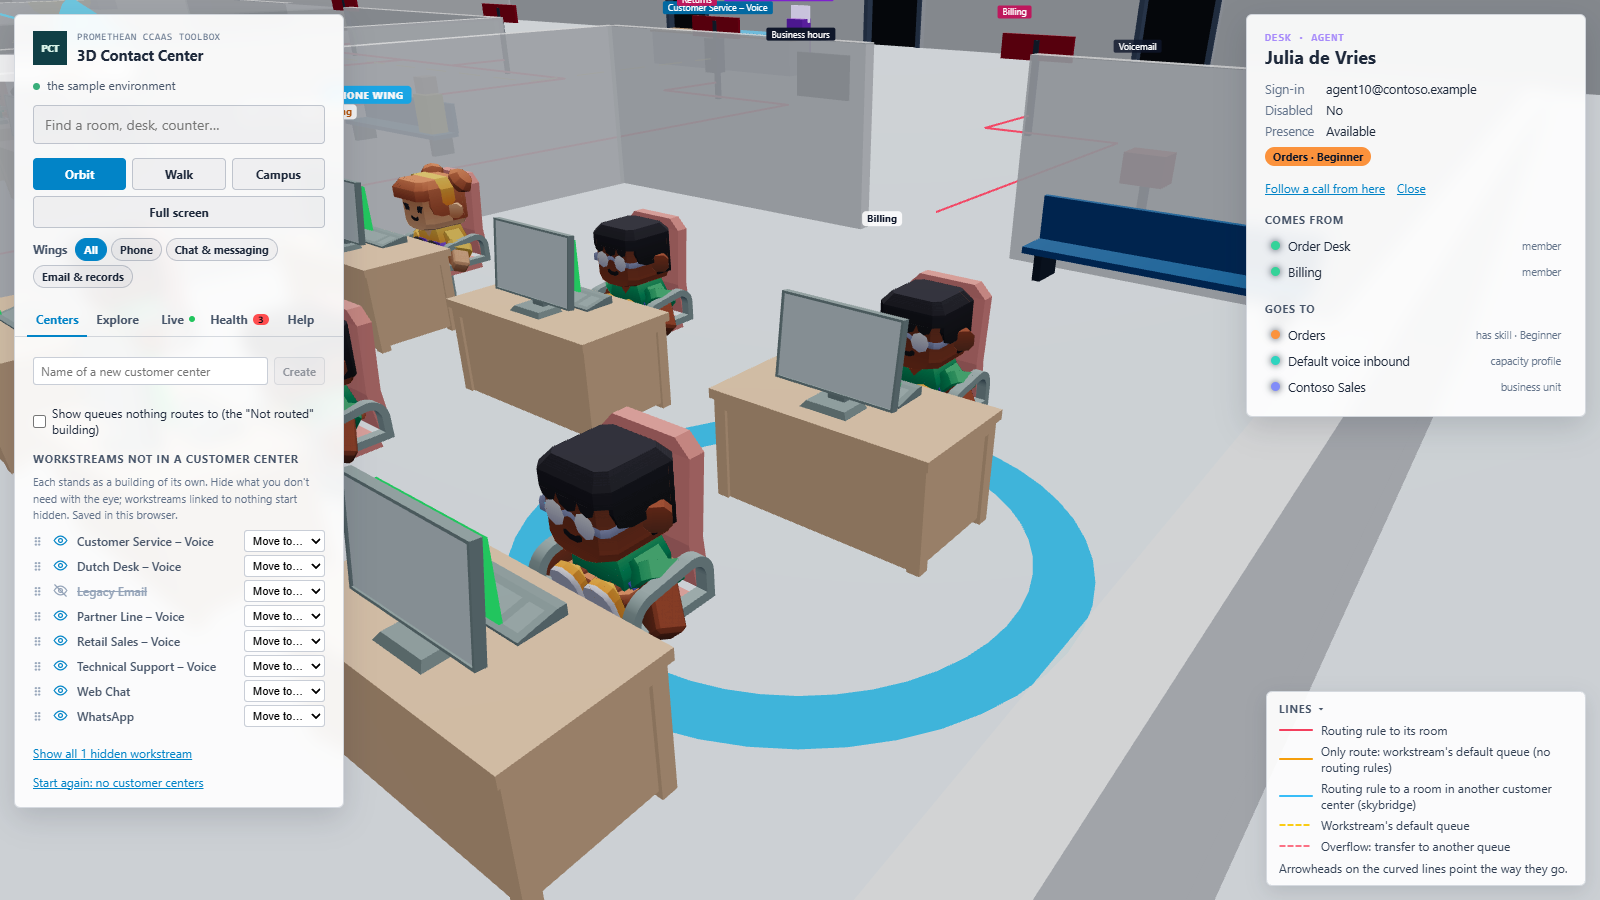
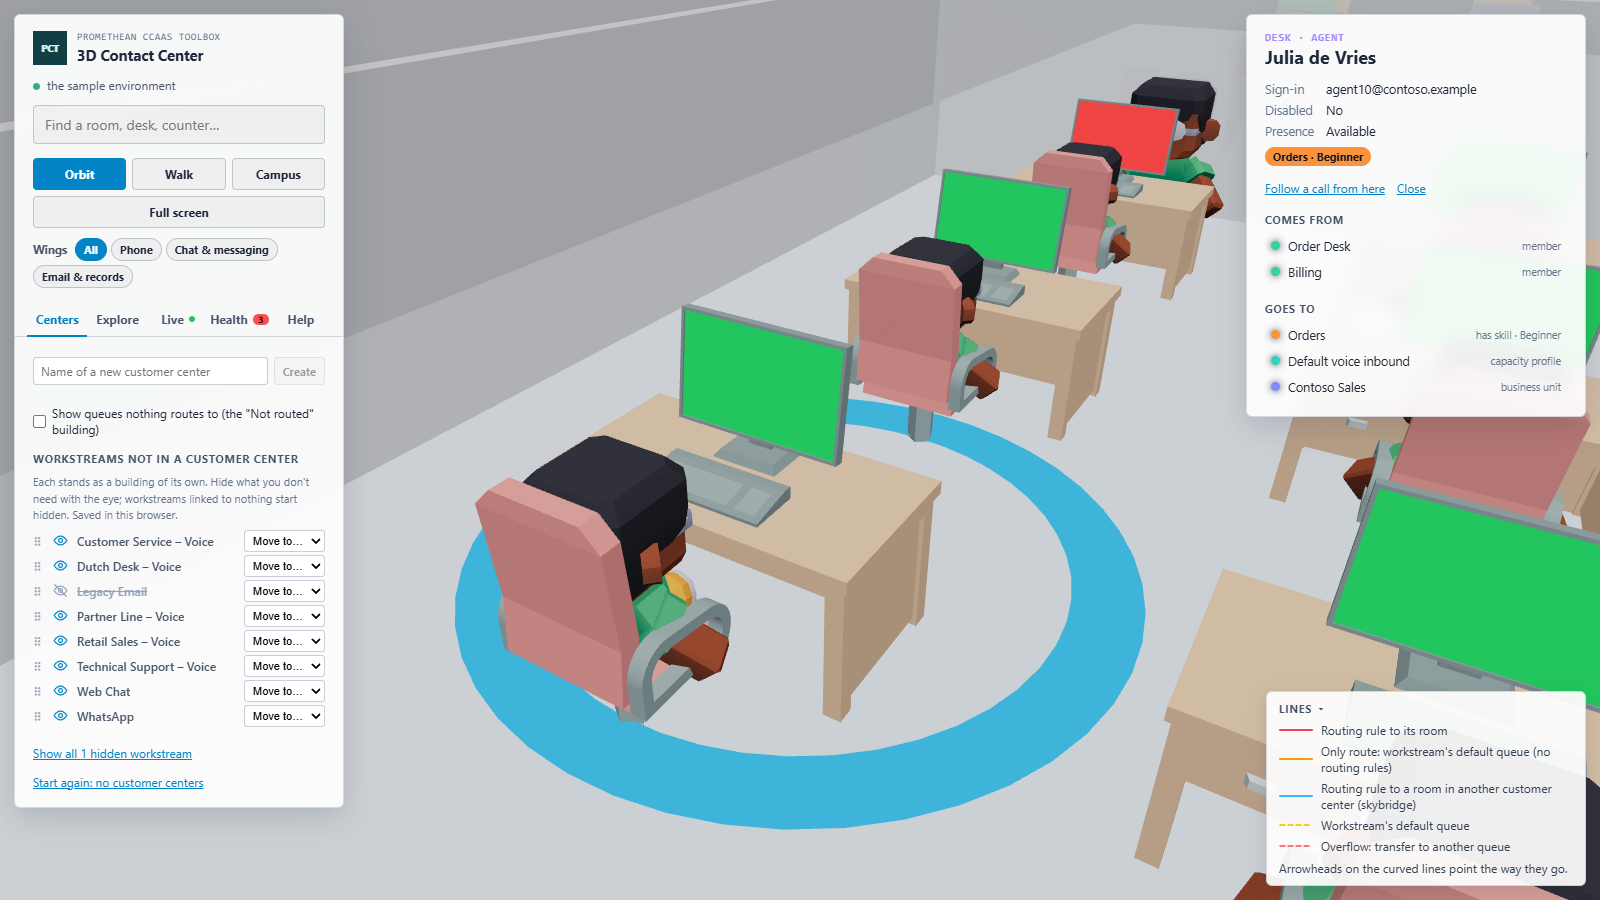
3D Contact Center: screens and keyboards face the agent; the display shows presence
Kenney's models face +z; the screen and keyboard had been turned round.
The display itself now carries the presence colour instead of a panel
floating in front of it.

diff --git a/tools/contact-center-3d/src/CampusScene.tsx b/tools/contact-center-3d/src/CampusScene.tsx
@@ -10,7 +10,7 @@ import { Severity } from "../../environment-3d-explorer/src/health";
 import { hash } from "../../environment-3d-explorer/src/layout";
 import { CameraGoal, CameraRig, Mode, Ride, SceneHandle } from "../../environment-3d-explorer/src/Scene";
 import { Area, Fixture, FixtureKind, Path, PathKind, Plan, Vec3, Wall, Wing, WING_COLORS } from "./floorplan";
-import { lookOf, Model, Models, useModels } from "./models";
+import { isDisplay, lookOf, Model, Models, useModels } from "./models";
 
 // The campus in 3D: open-roofed buildings seen from above, like a doll's house. Floors, walls, desks
 // and people are instanced boxes, so a large center stays smooth.
@@ -136,24 +136,33 @@ const SEATED_Y = 0.5;
 
 interface ModelItem { x: number; y: number; z: number; key?: string; turn?: number; scale?: number }
 
+// A part of a model coloured per copy (a screen's display in the agent's presence colour); glow: lit.
+interface Tint { part(material: THREE.Material): boolean; colors: THREE.Color[]; glow?: boolean }
+
 // Many copies of one model: an instanced mesh per part, each copy moved to its spot.
-function ModelInstances({ model, items, onPick }: { model: Model; items: ModelItem[]; onPick?: (key: string | undefined, item: ModelItem) => void }) {
+function ModelInstances({ model, items, onPick, tint }: { model: Model; items: ModelItem[]; onPick?: (key: string | undefined, item: ModelItem) => void; tint?: Tint }) {
   const refs = useRef<(THREE.InstancedMesh | null)[]>([]);
+  const tinted = useMemo(() => (tint?.glow ? new THREE.MeshBasicMaterial({ toneMapped: false }) : new THREE.MeshStandardMaterial({ roughness: 0.5 })), [tint?.glow]);
+  useEffect(() => () => tinted.dispose(), [tinted]);
   useLayoutEffect(() => {
     const m = new THREE.Matrix4();
-    refs.current.forEach((mesh) => {
+    refs.current.forEach((mesh, p) => {
       if (!mesh) return;
       items.forEach((it, i) => { m.makeRotationY(it.turn ?? 0).scale(new THREE.Vector3(it.scale ?? 1, it.scale ?? 1, it.scale ?? 1)).setPosition(it.x, it.y, it.z); mesh.setMatrixAt(i, m); });
+      if (tint && tint.part(model.parts[p].material)) {
+        items.forEach((_, i) => mesh.setColorAt(i, tint.colors[i]));
+        if (mesh.instanceColor) mesh.instanceColor.needsUpdate = true;
+      }
       mesh.instanceMatrix.needsUpdate = true;
       mesh.computeBoundingSphere();
     });
-  }, [items, model]);
+  }, [items, model, tint]);
   if (!items.length) return null;
   return (
     <>
       {model.parts.map((part, p) => (
         <instancedMesh
-          key={`${p}:${items.length}`} ref={(el) => { refs.current[p] = el; }} args={[part.geometry, part.material, items.length]}
+          key={`${p}:${items.length}`} ref={(el) => { refs.current[p] = el; }} args={[part.geometry, tint?.part(part.material) ? tinted : part.material, items.length]}
           onClick={onPick ? (e: ThreeEvent<MouseEvent>) => { if (e.delta > 4 || e.instanceId === undefined) return; e.stopPropagation(); onPick(items[e.instanceId]?.key, items[e.instanceId]); } : undefined}
           raycast={onPick ? undefined : () => null}
         />
@@ -163,13 +172,12 @@ function ModelInstances({ model, items, onPick }: { model: Model; items: ModelIt
 }
 
 // Desks from the models: a desk, a screen and keyboard on it, an office chair and an agent sitting
-// on it, facing the screen. The screen glows in the agent's presence colour; skill badges and the
+// on it, facing the screen. The display glows in the agent's presence colour; skill badges and the
 // business unit carpet as with the box desks.
 function ModelDesks({ desks, screens, showUnits, onPick }: DesksProps) {
   const models = useModels();
   const parts = useMemo(() => {
     const top = models.desk.size.y;
-    const screen = models.screen.size;
     const at = (f: Fixture, dx: number, dy: number, dz: number, extra: Partial<ModelItem> = {}): ModelItem => ({ x: f.x + dx, y: f.y + dy, z: f.z + dz, key: f.key, ...extra });
     const box = (f: Fixture, dx: number, dy: number, dz: number, w: number, h: number, d: number, extra: Partial<BoxItem> = {}): BoxItem => ({ x: f.x + dx, y: f.y + dy, z: f.z + dz, w, h, d, key: f.key, ...extra });
     return {
@@ -178,22 +186,20 @@ function ModelDesks({ desks, screens, showUnits, onPick }: DesksProps) {
       keyboards: desks.map((f) => at(f, 0, top, 0.2, { key: undefined })),
       chairs: desks.map((f) => at(f, 0, 0, 0.95, { key: undefined })),
       agents: models.people.sit.map((_, i) => desks.filter((f) => lookOf(f.key ?? "", hash) === i).map((f) => at(f, 0, SEATED_Y, 0.95))),
-      // The presence glow: a panel on the screen's front.
-      glows: desks.map((f) => box(f, 0, top + screen.y * 0.3, -0.2 + screen.z / 2 + 0.02, screen.x * 0.85, screen.y * 0.6, 0.02, { color: new THREE.Color(screens?.get(f.key ?? "") ?? SCREEN) })),
       badges: desks.flatMap((f) => (f.skills ?? []).slice(0, 3).map((s, i) => box(f, -0.5 + i * 0.5, top - 0.25, 0.42, 0.3, 0.18, 0.04, { color: new THREE.Color(colorFor(s)) }))),
       carpets: showUnits ? desks.filter((f) => f.unit).map((f) => box(f, 0, 0.03, 0.3, 3, 0.02, 3, { color: new THREE.Color(colorFor(f.unit!)), key: undefined })) : []
     };
   }, [desks, screens, showUnits, models]);
+  const display = useMemo<Tint>(() => ({ part: isDisplay, glow: !!screens, colors: desks.map((f) => new THREE.Color(screens?.get(f.key ?? "") ?? SCREEN)) }), [desks, screens]);
   const pick = pickDesk(desks, onPick);
   return (
     <>
       <Boxes items={parts.carpets} />
       <ModelInstances model={models.desk} items={parts.desks} onPick={pick} />
-      <ModelInstances model={models.screen} items={parts.screens} onPick={pick} />
+      <ModelInstances model={models.screen} items={parts.screens} onPick={pick} tint={display} />
       <ModelInstances model={models.keyboard} items={parts.keyboards} />
       <ModelInstances model={models.chair} items={parts.chairs} />
       {models.people.sit.map((m, i) => <ModelInstances key={i} model={m} items={parts.agents[i]} onPick={pick} />)}
-      <Boxes items={parts.glows} emissive={!!screens} onPick={pick} />
       <Boxes items={parts.badges} emissive />
     </>
   );

diff --git a/tools/contact-center-3d/src/models.ts b/tools/contact-center-3d/src/models.ts
@@ -96,9 +96,13 @@ export function toModel(gltf: { scene: THREE.Group; animations: THREE.AnimationC
   return model;
 }
 
-// Turns, so each model faces the way the scene needs. People facing -z: a desk's agent sits on its +z
-// side facing the screen, and waiting callers face into the room (both with their back to its front).
-const DESK_YAW = 0, CHAIR_YAW = Math.PI, SCREEN_YAW = Math.PI, KEYBOARD_YAW = Math.PI, PERSON_YAW = Math.PI;
+// Turns, so each model faces the way the scene needs. Kenney's models face +z. A desk's agent sits on its
+// +z side facing -z, so the desk, screen and keyboard keep facing +z (towards the agent) and the chair
+// and people turn round; waiting callers face into the room the same way (their back to its front).
+const DESK_YAW = 0, CHAIR_YAW = Math.PI, SCREEN_YAW = 0, KEYBOARD_YAW = 0, PERSON_YAW = Math.PI;
+
+// The part of the screen model that is the display (its material in the Furniture Kit).
+export const isDisplay = (material: THREE.Material) => material.name === "metal";
 // Kenney's characters have big heads: sitting at a desk they look right smaller; standing, near full size.
 const SITTING_SCALE = 0.65, STANDING_SCALE = 0.95;
 

diff --git a/tools/contact-center-3d/IMPLEMENTATION_STATUS.md b/tools/contact-center-3d/IMPLEMENTATION_STATUS.md
@@ -53,7 +53,7 @@ First version: the campus, a building per customer center, combine / split / mov
 
 - Desks are models from Kenney (CC0): `desk`, `chairDesk`, `computerScreen`, `computerKeyboard` (Furniture Kit) and two Mini Characters, slimmed to their `sit` animation (gltf-transform: other animations removed, texture embedded, pruned). About 400 KB of models; the bundle went from 1.1 to 1.6 MB.
 - Webpack inlines `.glb` as data URLs (`asset/inline`); jest maps `.glb` to a stub. `useGLTF` loads them (no Draco or meshopt); `toModel` bakes the sitting pose into plain geometry, centres it and scales it (furniture 2.5x; characters 0.65 of that, their heads are big). One instanced mesh per model part.
-- Agents sit on the +z side of the desk, facing the screen; the presence glow is a panel on the screen's front. The box desks stay as the fallback.
+- Agents sit on the +z side of the desk, facing the screen. Kenney's models face +z, so the desk, screen and keyboard keep that and the chair and people turn round (the screen and keyboard were turned round at first; found in review). The screen's display (its `metal` material) is coloured per desk in the agent's presence colour. The box desks stay as the fallback.
 - Then the rest (after review: "looks good, let's do the rest"): waiting chairs (`chairModernCushion`, one per bench seat) instead of the bench, a receptionist behind each counter, potted plants in the lobby corners, callers (sitting on the chairs, standing beside them when full, or across the agent's desk facing them) and walking callers in the walk pose, turned the way they go. Characters keep three animations (`sit`, `idle`, `walk`), each baked once; sitting people are 0.65 scale, standing 0.95.
 - Each pose is baked on a fresh copy of the character (`SkeletonUtils.clone` from three-stdlib, now a direct dependency): `idle` doesn't move the legs, so baked after `sit` on the same skeleton the receptionists sat (found in review). `tests/models.test.ts` guards it.
 - Callers talking to an agent used to stand inside the desk; they now stand across it, facing the agent.
